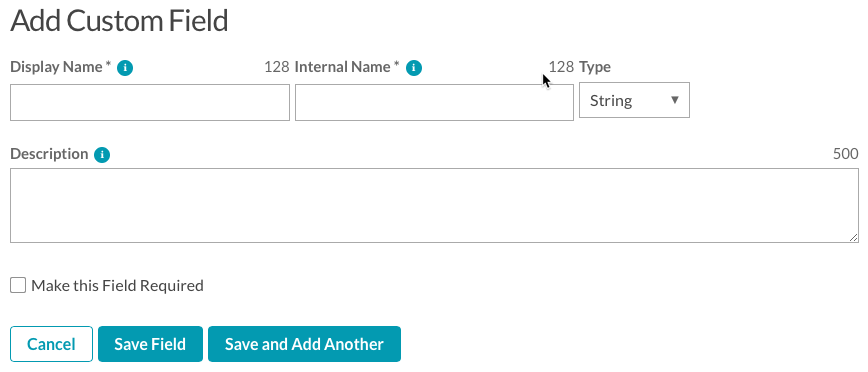
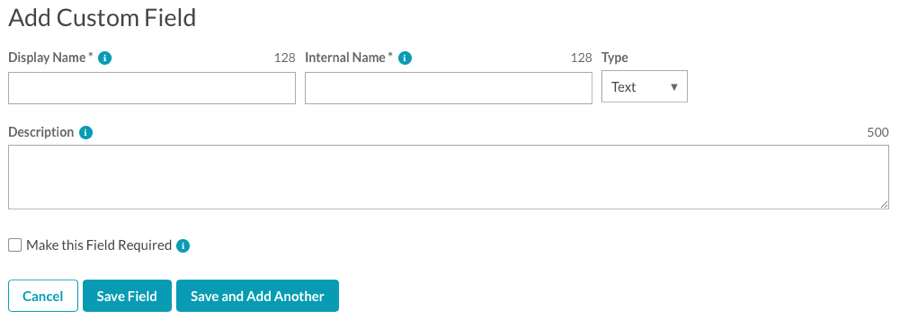
update custom field doc for UI changes

diff --git a/_site/admin/creating-custom-metadata-fields.html b/_site/admin/creating-custom-metadata-fields.html
@@ -867,7 +867,7 @@ function doGTranslate(lang_pair) {if(lang_pair.value)lang_pair=lang_pair.value;i
   <section class="bcls-section">
     <h2 id="newUI">Creating custom fields</h2>
     <p>To create custom fields, follow these steps.</p>
-    <aside class="bcls-aside bcls-aside--information language-editable">Note that after you make any changes to custom fields, you may need to clear your browser cache and reload the page to see the changes.</aside>
+    <aside class="bcls-aside bcls-aside--information language-editable">Note:  After you make any changes to custom fields, you may need to clear your browser cache and reload the page to see the changes.</aside>
     <ol class="bcls-tasklist-restart">
       <li class="language-editable">Login to Video Cloud Studio.</li>
       <li class="language-editable">In the navigation header, click <strong>ADMIN</strong> and then <strong>Video Fields</strong>. Note that you must be an account administrator to access to the ADMIN menu.</li>
@@ -884,7 +884,7 @@ function doGTranslate(lang_pair) {if(lang_pair.value)lang_pair=lang_pair.value;i
       </li>
       <li class="language-editable">Select a <strong>Type</strong> for the field.
         <ul>
-          <li class="language-editable"><strong>String</strong> - The user can type anything into the field up to 1024 single-byte characters (or 512 double-byte characters).</li>
+          <li class="language-editable"><strong>Text</strong> - The user can type anything into the field up to 1024 single-byte characters (or 512 double-byte characters).</li>
           <li class="language-editable"><strong>List</strong> - The user will select from a list of values. Lists can have no more than 150 possible values and each value in the list can be no more than 100 characters long.</li>
         </ul>
       </li>

diff --git a/admin/creating-custom-metadata-fields.html b/admin/creating-custom-metadata-fields.html
@@ -13,7 +13,7 @@ parent: Administering Accounts
   <section class="bcls-section">
     <h2 id="newUI">Creating custom fields</h2>
     <p>To create custom fields, follow these steps.</p>
-    <aside class="bcls-aside bcls-aside--information language-editable">Note that after you make any changes to custom fields, you may need to clear your browser cache and reload the page to see the changes.</aside>
+    <aside class="bcls-aside bcls-aside--information language-editable">Note:  After you make any changes to custom fields, you may need to clear your browser cache and reload the page to see the changes.</aside>
     <ol class="bcls-tasklist-restart">
       <li class="language-editable">Login to Video Cloud Studio.</li>
       <li class="language-editable">In the navigation header, click <strong>ADMIN</strong> and then <strong>Video Fields</strong>. Note that you must be an account administrator to access to the ADMIN menu.</li>
@@ -30,7 +30,7 @@ parent: Administering Accounts
       </li>
       <li class="language-editable">Select a <strong>Type</strong> for the field.
         <ul>
-          <li class="language-editable"><strong>String</strong> - The user can type anything into the field up to 1024 single-byte characters (or 512 double-byte characters).</li>
+          <li class="language-editable"><strong>Text</strong> - The user can type anything into the field up to 1024 single-byte characters (or 512 double-byte characters).</li>
           <li class="language-editable"><strong>List</strong> - The user will select from a list of values. Lists can have no more than 150 possible values and each value in the list can be no more than 100 characters long.</li>
         </ul>
       </li>
